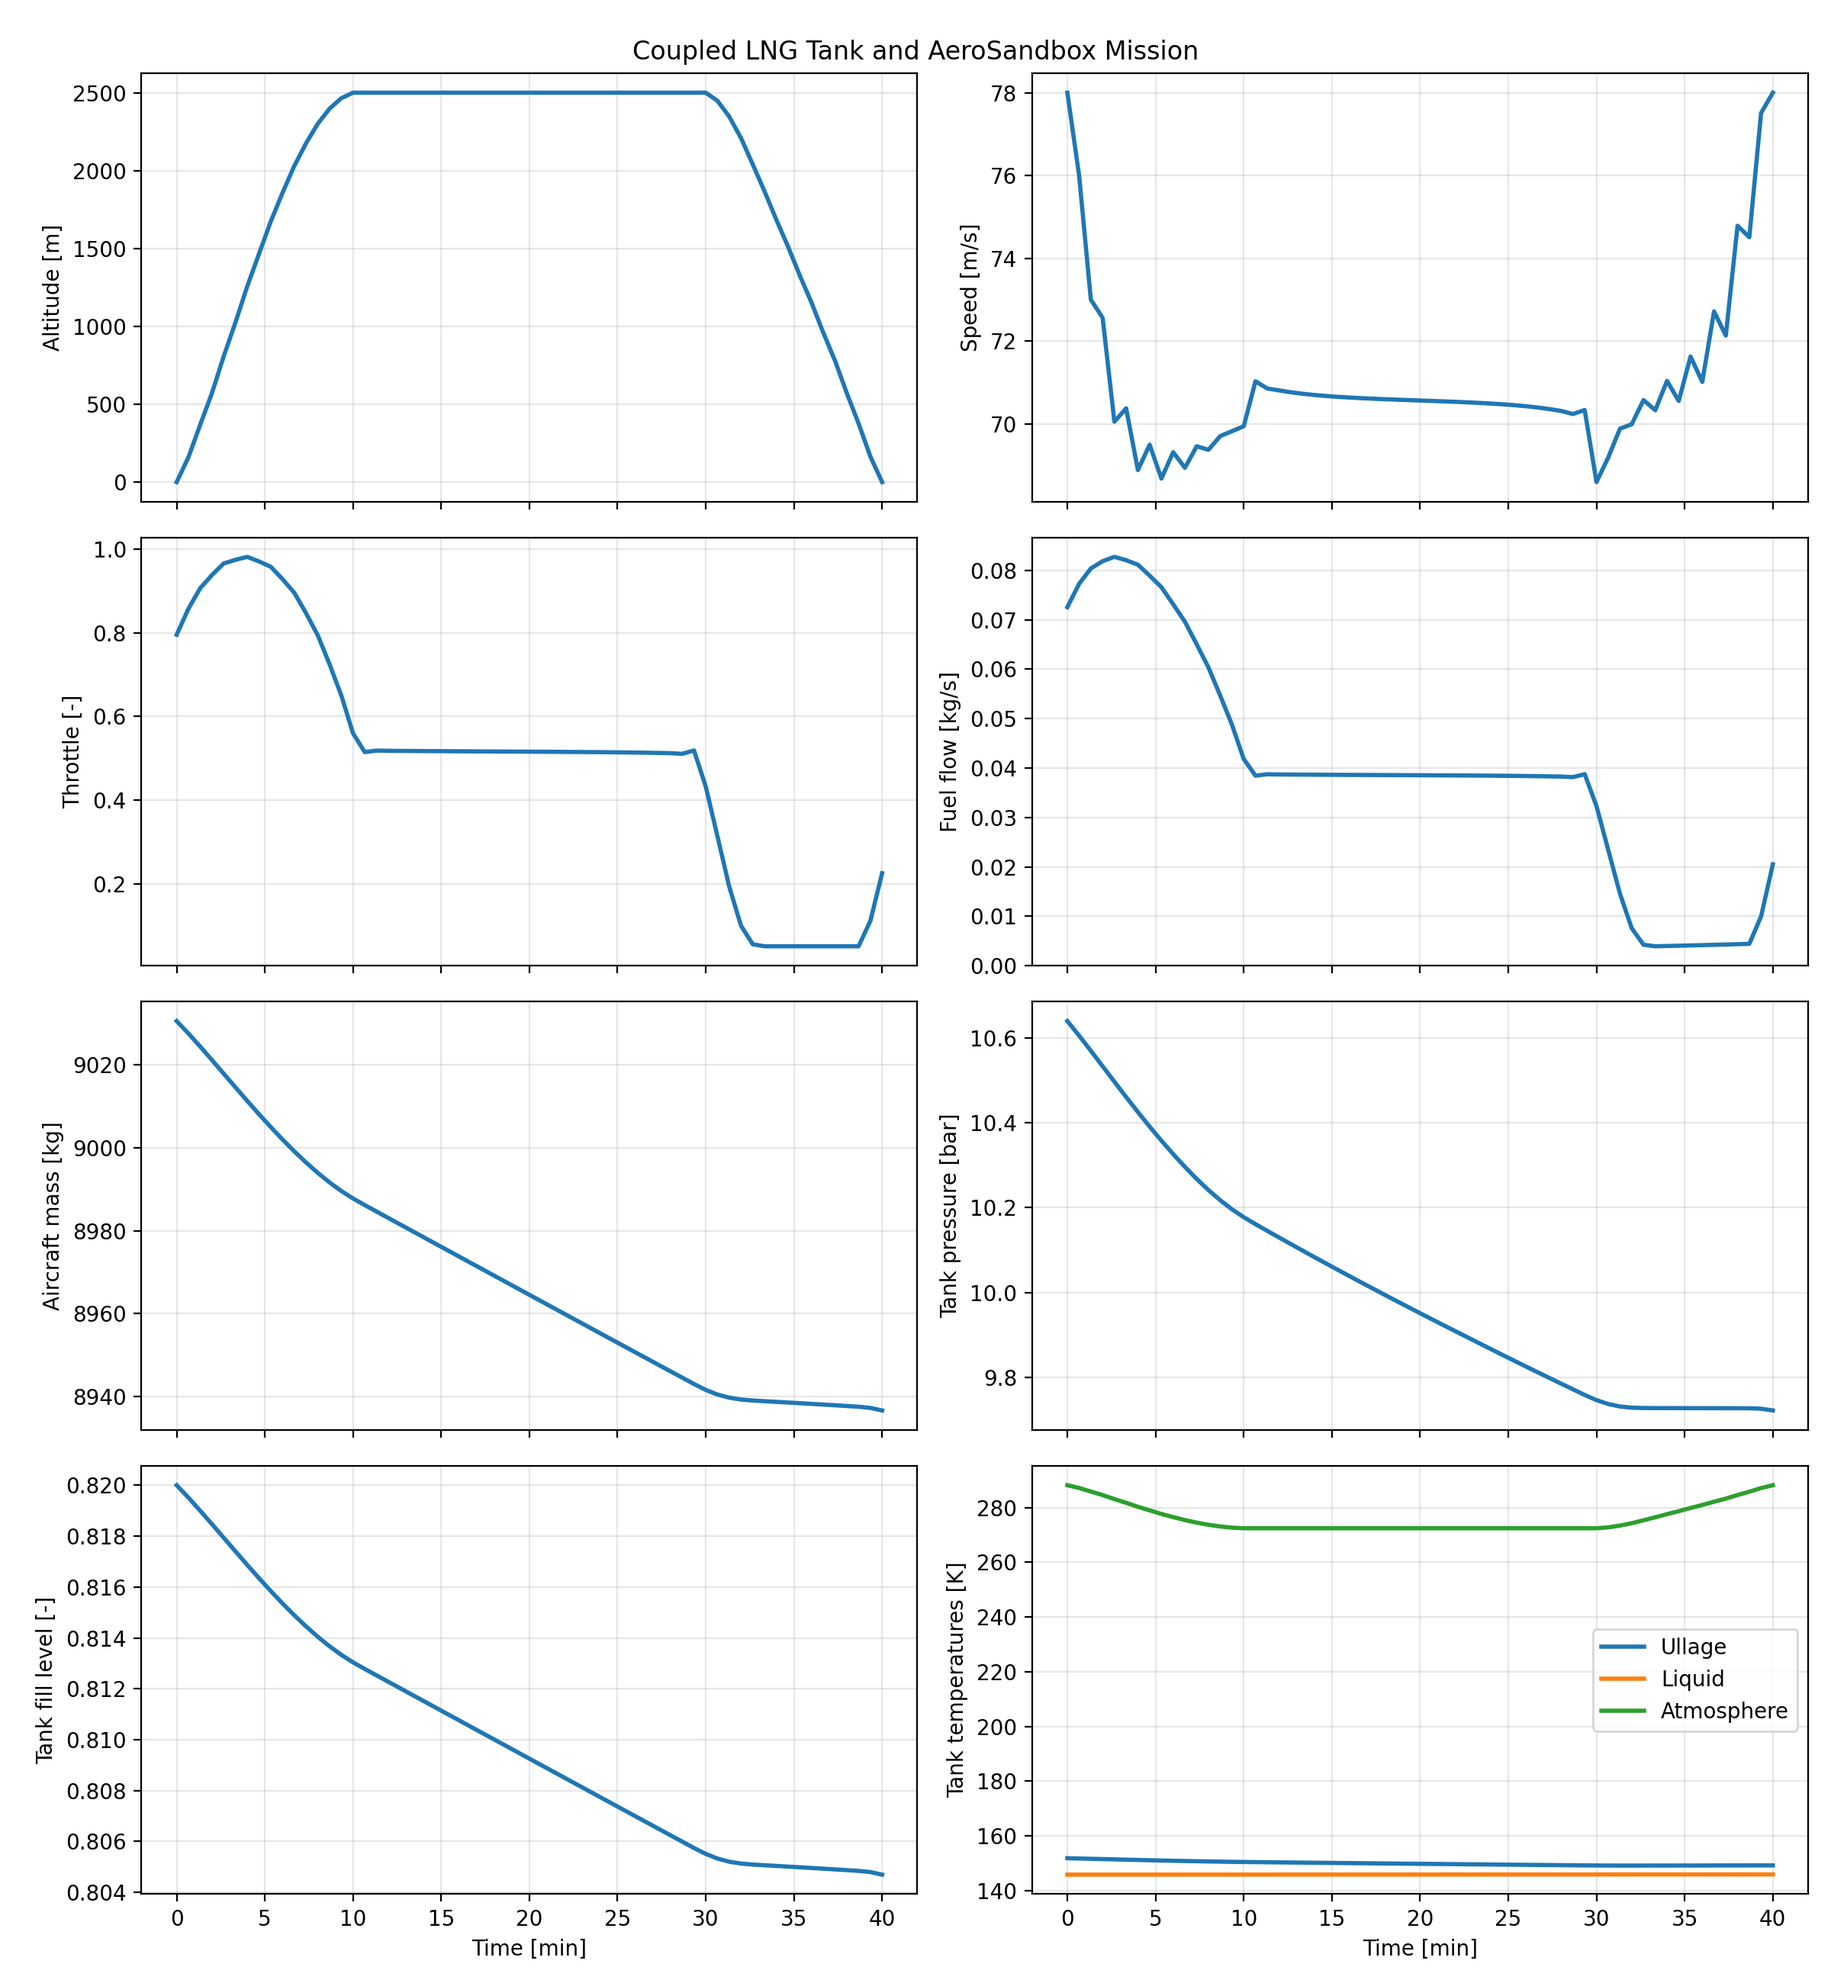
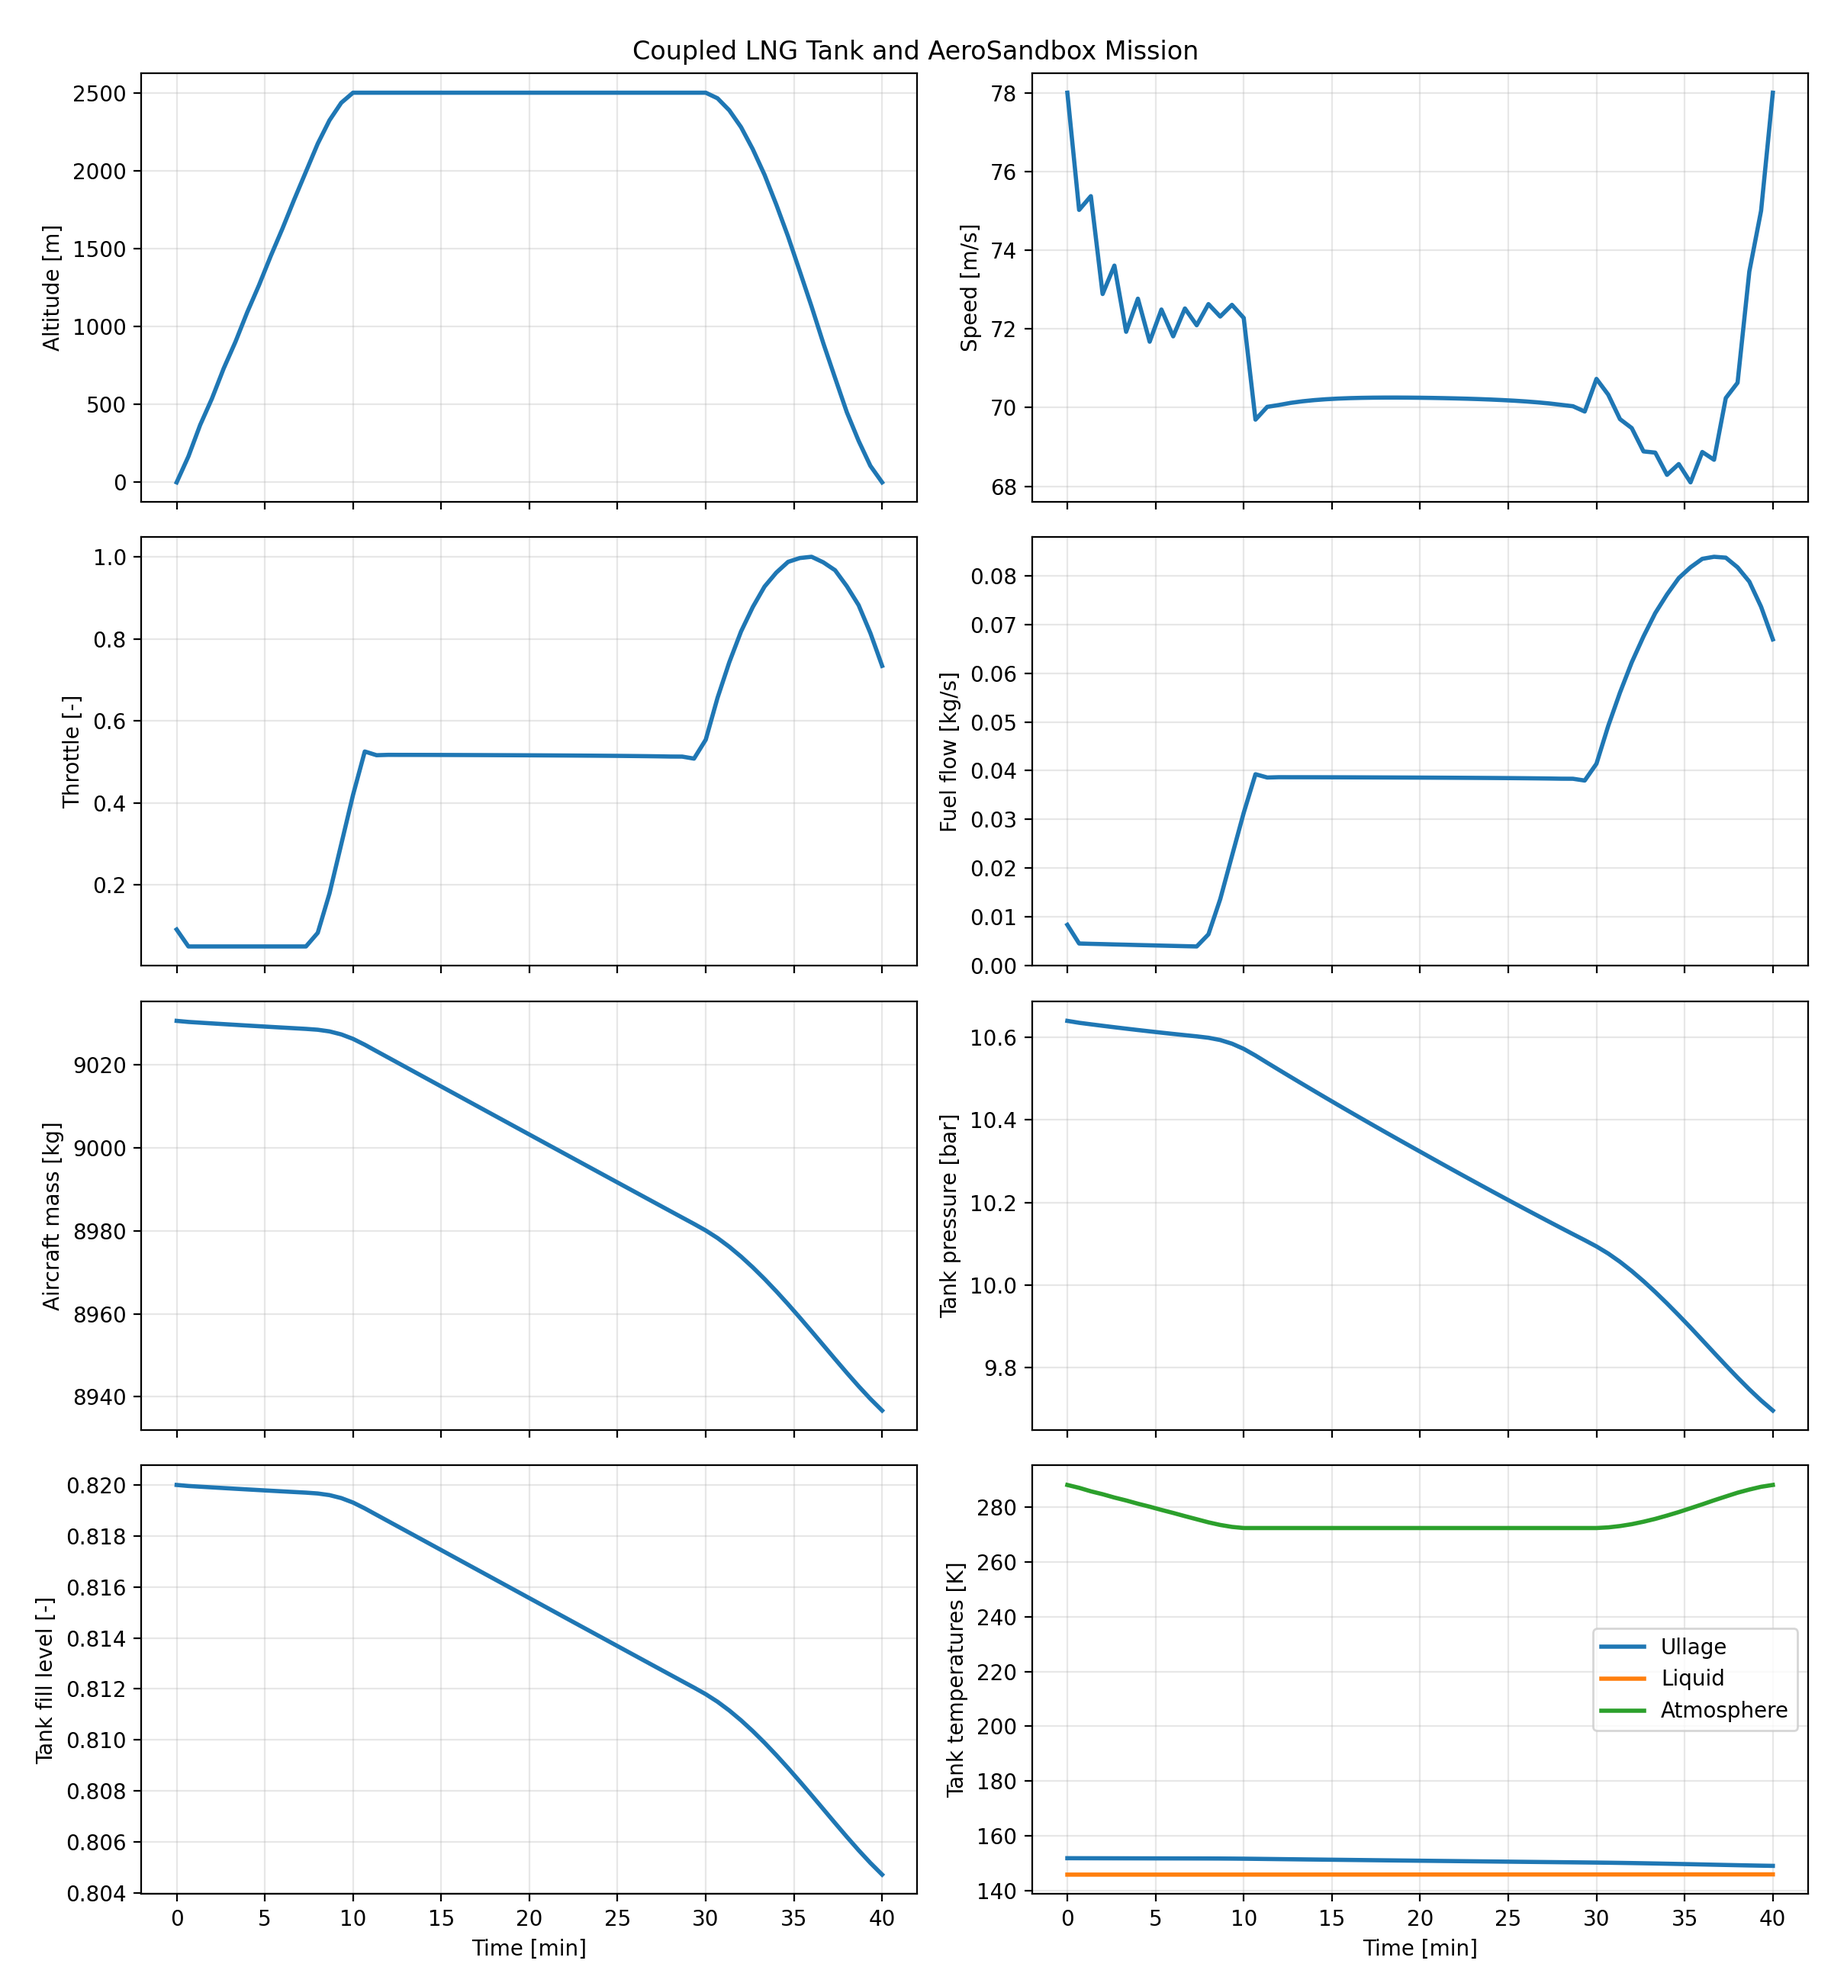
Use AeroSandbox dynamics stack for LNG mission

diff --git a/examples/coupled_lng_aerosandbox_mission.py b/examples/coupled_lng_aerosandbox_mission.py
@@ -1,11 +1,12 @@
 """
 Closed-loop AeroSandbox mission and LNG tank example.
 
-This example uses a simple powered 2D point-mass aircraft model with three
-mission phases: climb, cruise, and descent. The LNG tank is solved inside the
-same AeroSandbox optimization problem. Atmospheric temperature from the flight
-trajectory drives the tank heat leak, engine fuel flow draws liquid LNG from
-the tank, and the remaining tank fluid mass feeds back into aircraft weight.
+This example uses AeroSandbox's 2D point-mass speed/gamma dynamics stack with
+three mission phases: climb, cruise, and descent. The LNG tank is solved inside
+the same AeroSandbox optimization problem. Atmospheric temperature from the
+flight trajectory drives the tank heat leak, engine fuel flow draws liquid LNG
+from the tank, and the remaining tank fluid mass feeds back into aircraft
+weight.
 """
 
 from dataclasses import dataclass
@@ -17,7 +18,6 @@ import matplotlib.pyplot as plt
 import numpy as onp
 
 from lngtank.aerosandbox_tank import (
-    InitialState,
     MissionInputs,
     TankDesign,
     initial_gas_density_from_pressure,
@@ -171,10 +171,25 @@ def build_coupled_problem(
 
     def node_rhs(k):
         atmosphere = asb.Atmosphere(altitude=z[k])
-        rho = atmosphere.density()
+        op_point = asb.OperatingPoint(
+            atmosphere=atmosphere,
+            velocity=v[k],
+            alpha=0.0,
+        )
+        dynamics = asb.DynamicsPointMass2DSpeedGamma(
+            mass_props=asb.MassProperties(
+                mass=aircraft.dry_mass + aircraft.tank_hardware_mass + m_gas[k] + m_liq[k],
+            ),
+            x_e=x[k],
+            z_e=z[k],
+            speed=v[k],
+            gamma=gamma[k],
+        )
+
         t_env = atmosphere.temperature()
+        rho = atmosphere.density()
         density_ratio = rho / rho0
-        q_dyn = 0.5 * rho * v[k] ** 2
+        q_dyn = op_point.dynamic_pressure()
         cd = aircraft.cd0 + induced_factor * cl[k] ** 2
         lift = q_dyn * aircraft.wing_area * cl[k]
         drag = q_dyn * aircraft.wing_area * cd
@@ -197,11 +212,10 @@ def build_coupled_problem(
             h_liq_frac=h_liq_frac[k],
         )
 
-        mass = aircraft.dry_mass + aircraft.tank_hardware_mass + m_gas[k] + m_liq[k]
-        x_dot = v[k] * np.cos(gamma[k])
-        z_dot = v[k] * np.sin(gamma[k])
-        v_dot = (thrust - drag) / mass - G * np.sin(gamma[k])
-        gamma_dot = (lift - mass * G * np.cos(gamma[k])) / (mass * v[k])
+        dynamics.add_force(Fx=thrust - drag, Fz=-lift, axes="wind")
+        dynamics.add_gravity_force(g=G)
+        state_derivatives = dynamics.state_derivatives()
+        mass = dynamics.mass_props.mass
 
         aux["pressure"].append(tank_aux["pressure"])
         aux["fill_level"].append(tank_aux["fill_level"])
@@ -210,7 +224,13 @@ def build_coupled_problem(
         aux["q_gas"].append(tank_aux["q_gas"])
         aux["q_liq"].append(tank_aux["q_liq"])
         aux["t_env"].append(t_env)
-        return [x_dot, z_dot, v_dot, gamma_dot, *tank_f]
+        return [
+            state_derivatives["x_e"],
+            state_derivatives["z_e"],
+            state_derivatives["speed"],
+            state_derivatives["gamma"],
+            *tank_f,
+        ]
 
     for k in range(n):
         rhs_k = node_rhs(k)
